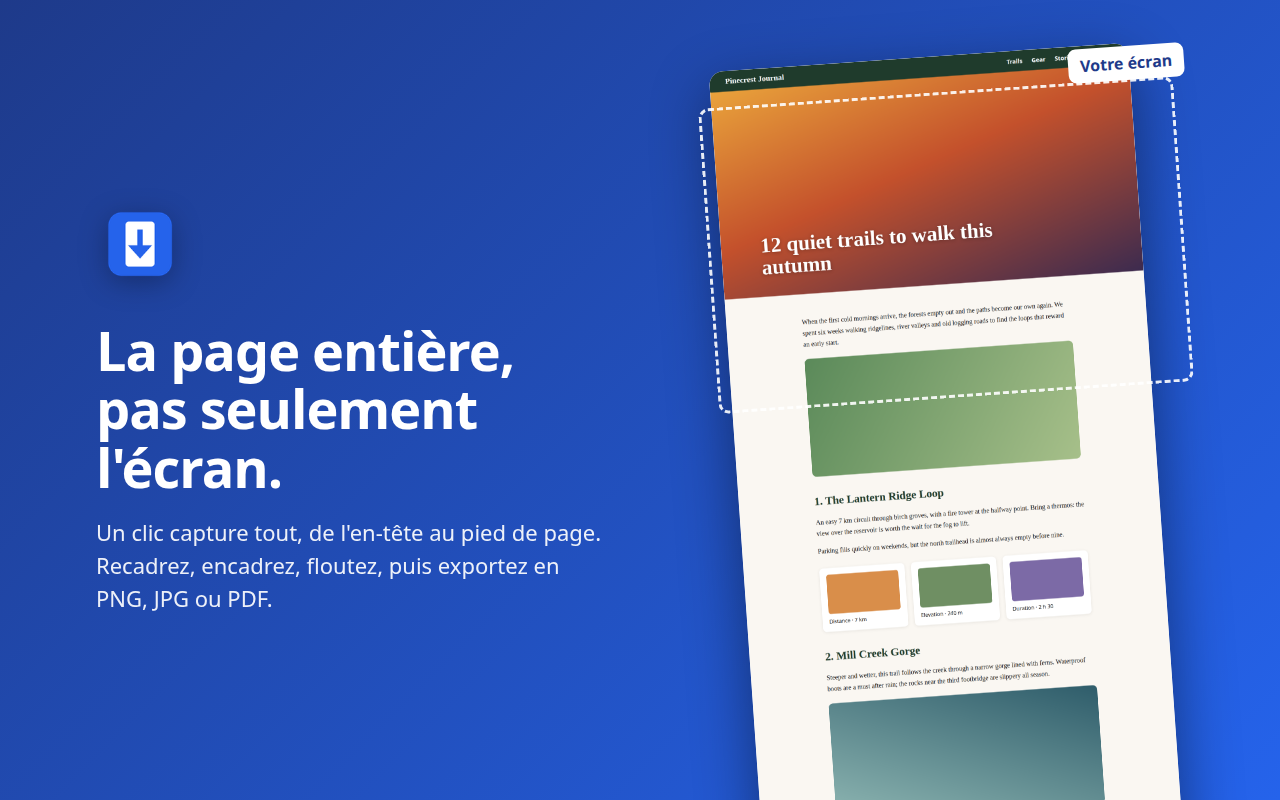
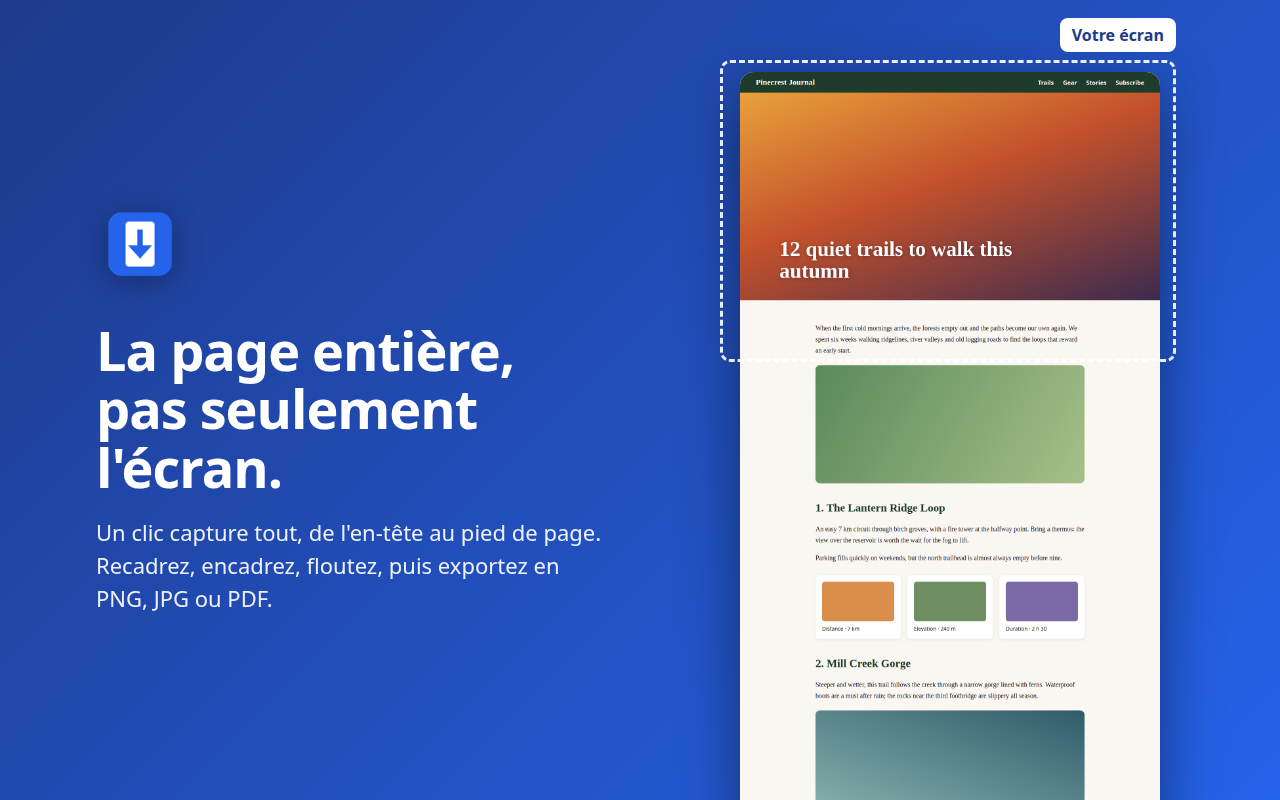
Align store assets with listing guidelines
- Five screenshots per locale (adds how-it-works and result views)
- No rotated content in screenshots
- Promo tile readable at half size; marquee with less text
- Homepage and support URLs in the listing notes

Changed region(s): [[0.5312, 0.0, 0.9375, 1.0], [0.9062, 0.6875, 0.9375, 1.0], [0.5625, 0.7188, 0.5938, 1.0]]

diff --git a/store/LISTING.md b/store/LISTING.md
@@ -3,7 +3,9 @@
 ## General info
 - **Category**: Tools (or Productivity)
 - **Primary language**: English (French is included via `_locales/fr`)
-- **Website / support**: https://github.com/fx-diff/fxfullpage
+- **Homepage URL**: https://github.com/fx-diff/fxfullpage
+- **Support URL**: https://github.com/fx-diff/fxfullpage/issues
+- **Official URL**: leave empty (requires a domain verified in Google Search Console)
 - **Privacy policy URL**: https://github.com/fx-diff/fxfullpage/blob/main/PRIVACY.md
 
 ---
@@ -72,7 +74,8 @@ Tick all three certifications:
 
 ## Images (`store/` folder)
 - `icon-128.png` – store icon (128×128, artwork 96×96 with 16 px transparent padding)
-- `screenshot-1.png` … `screenshot-3.png` – international (English) screenshots, 1280×800
-- `screenshot-1-fr.png` … `screenshot-3-fr.png` – localized French screenshots, 1280×800
+- `screenshot-1.png` … `screenshot-5.png` – international (English) screenshots, 1280×800, upload in order
+- `screenshot-1-fr.png` … `screenshot-5-fr.png` – localized French screenshots, 1280×800, upload in order
+  1. overview · 2. crop · 3. box + blur · 4. how it works · 5. result + copy
 - `promo-small.png` – small promo tile, 440×280
 - `marquee.png` – marquee promo tile, 1400×560
